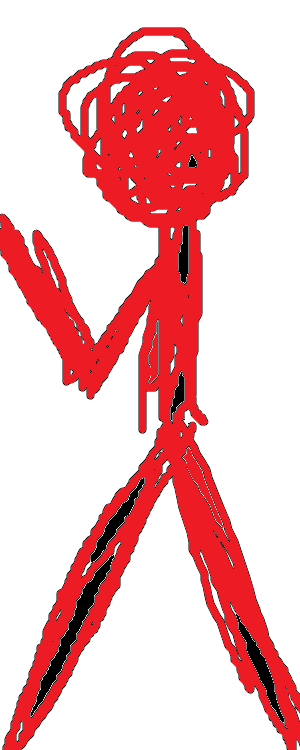
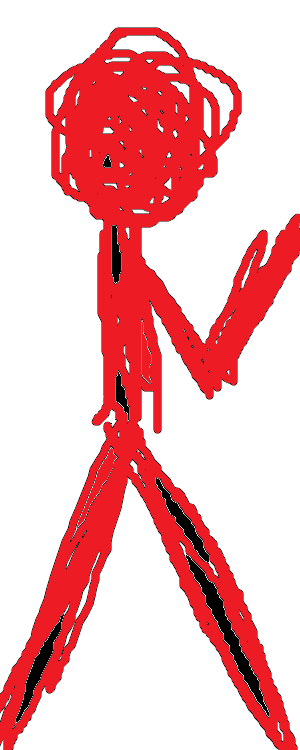
facing dynamic changes texture orientation

diff --git a/MK_SFML_Game/Player.cpp b/MK_SFML_Game/Player.cpp
@@ -17,6 +17,11 @@ Player::~Player() {
 
 void Player::setRightFacing(bool facing) {
 	this->isRightFacing = facing;
+	if (facing && this->sprite.getScale().x < 0) {
+		this->sprite.scale(-1.f, 1.f);
+	} else if(!facing && this->sprite.getScale().x >= 0) {
+		this->sprite.scale(-1.f, 1.f);
+	}
 }
 
 void Player::setMovementMatrix(bool forward, bool back, bool up, bool down, bool lHand, bool rHand, bool kick) {

diff --git a/MK_SFML_Game/GameEngine.cpp b/MK_SFML_Game/GameEngine.cpp
@@ -82,12 +82,8 @@ void GameEngine::pollEvents() {
 			//escape button
 			if (e.Event::key.code == sf::Keyboard::Escape) {
 				this->window->close();
-			} else {
-				
-			}
-			
+			} 
 		}
-		
 	}
 }
 
